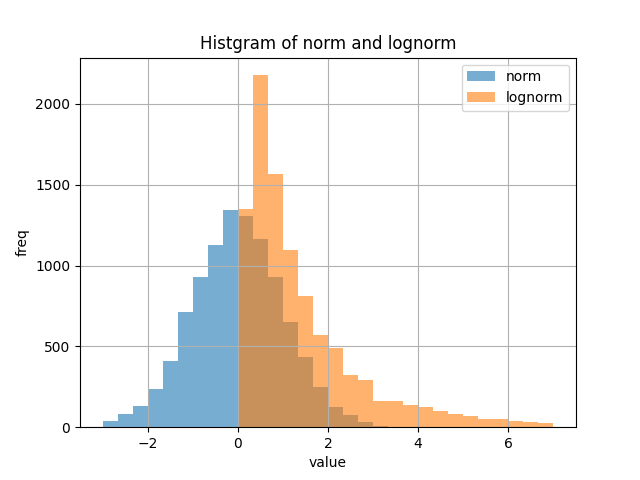
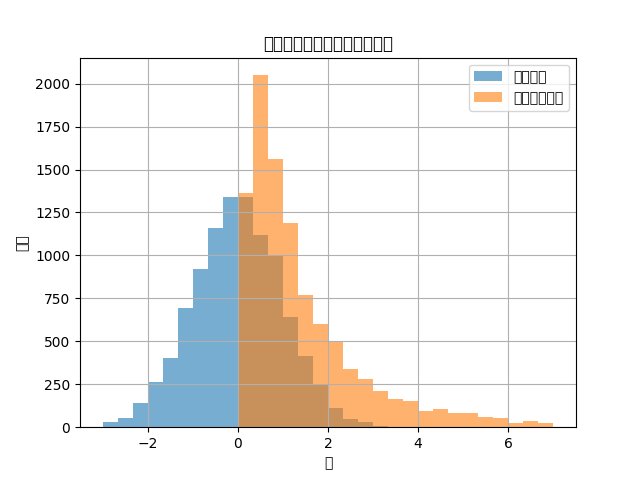
lesson3_statics26

diff --git a/lesson3/lesson3_statics2.py b/lesson3/lesson3_statics2.py
@@ -42,10 +42,18 @@ fname = r"data/" + "testFig02.png"
 
 fname = r"data/" + "testFig03.png"
 plt.figure()
-df["Norm"].hist(bins=30, alpha=0.6, range=(-3, 7), label="norm")
-df["LogNorm"].hist(bins=30, alpha=0.6, range=(-3, 7), label="lognorm")
-plt.xlabel("value")
-plt.ylabel("freq")
+# df["Norm"].hist(bins=30, alpha=0.6, range=(-3, 7), label="norm")
+# df["LogNorm"].hist(bins=30, alpha=0.6, range=(-3, 7), label="lognorm")
+# plt.xlabel("value")
+# plt.ylabel("freq")
+# plt.legend()
+# plt.title("Histgram of norm and lognorm")
+# plt.savefig(fname)
+
+df["Norm"].hist(bins=30, alpha=0.6, range=(-3, 7), label="正規分布")
+df["LogNorm"].hist(bins=30, alpha=0.6, range=(-3, 7), label="対数正規分布")
+plt.xlabel("値")
+plt.ylabel("頻度")
 plt.legend()
-plt.title("Histgram of norm and lognorm")
+plt.title("正規分布と対数正規分布の表")
 plt.savefig(fname)
